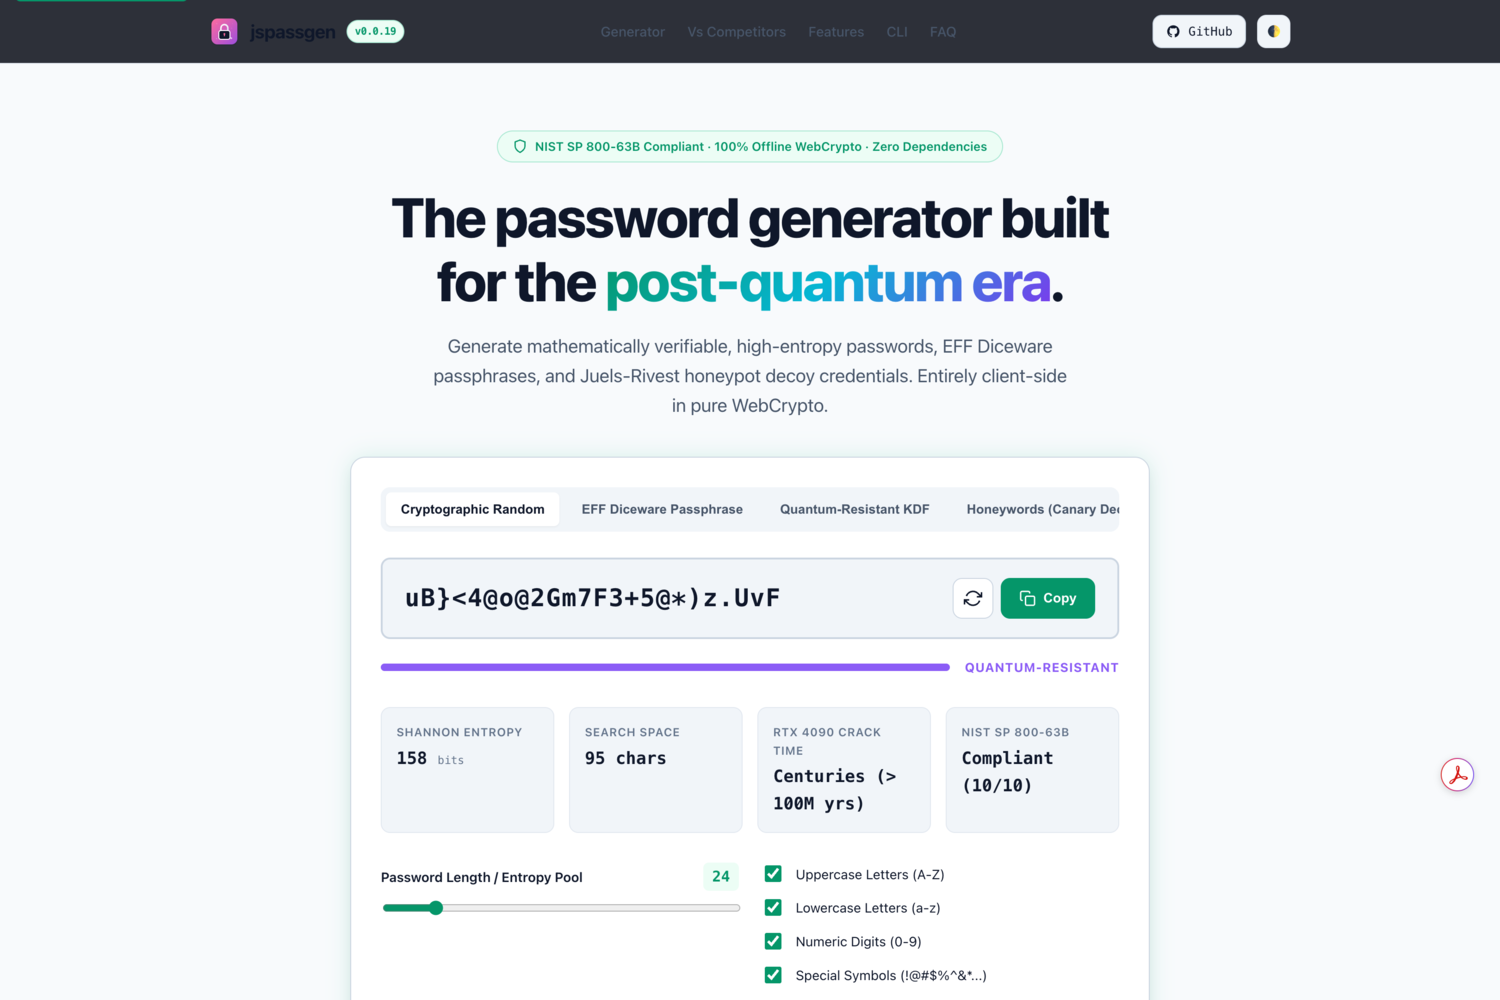
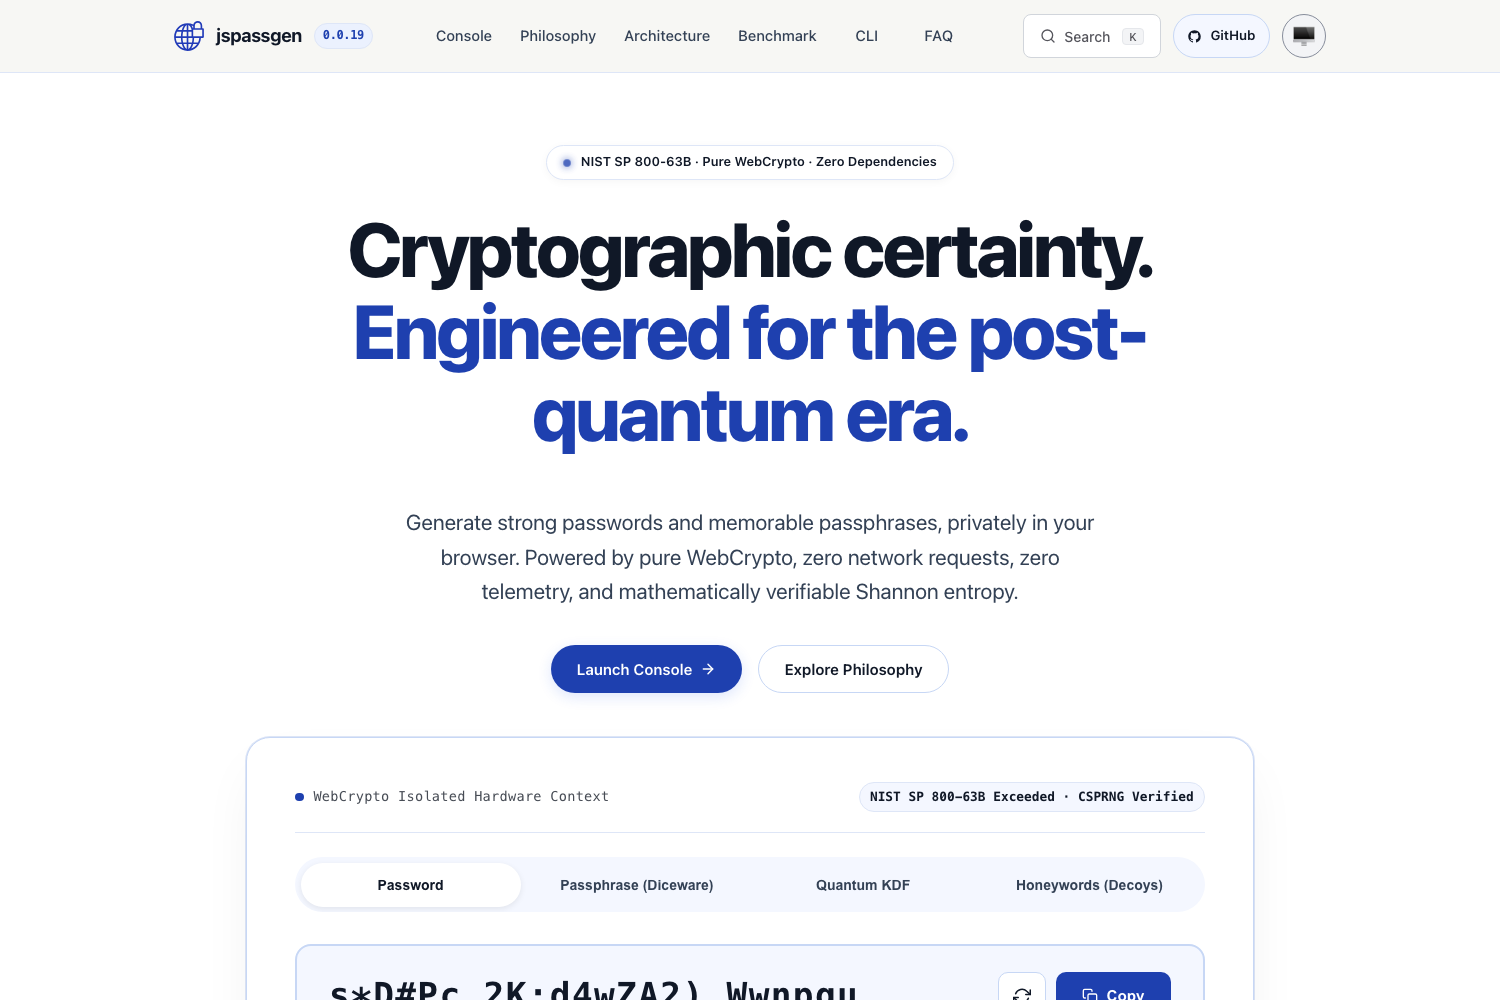
docs(jspassgen): recapture the gallery screenshots
The committed card, thumbnail and screenshot images showed an earlier
design. They are recaptured from the current build: the 1500 x 1000
screenshot and the 900 x 600 thumbnail as PNG and WebP, and the
640 x 427 WebP card.

Assisted-by: Claude Code:claude-opus-5-5

diff --git a/themes/jspassgen/CHANGELOG.md b/themes/jspassgen/CHANGELOG.md
@@ -27,6 +27,8 @@
   command-line panel's text sits on opaque grounds over its backdrop
   photograph, and the two labelled displays carry `role="group"`.
 - In-page links clear the sticky header (`scroll-padding-top`).
+- Recaptured the gallery screenshots from the current build; the
+  committed ones showed an earlier design.
 - Packed the Diceware list: the full 7,776-word EFF list still ships
   inside `main.js`, so a passphrase needs no network request, but as a
   13 KB arithmetic-coded string instead of 62 KB of plain words. The page
